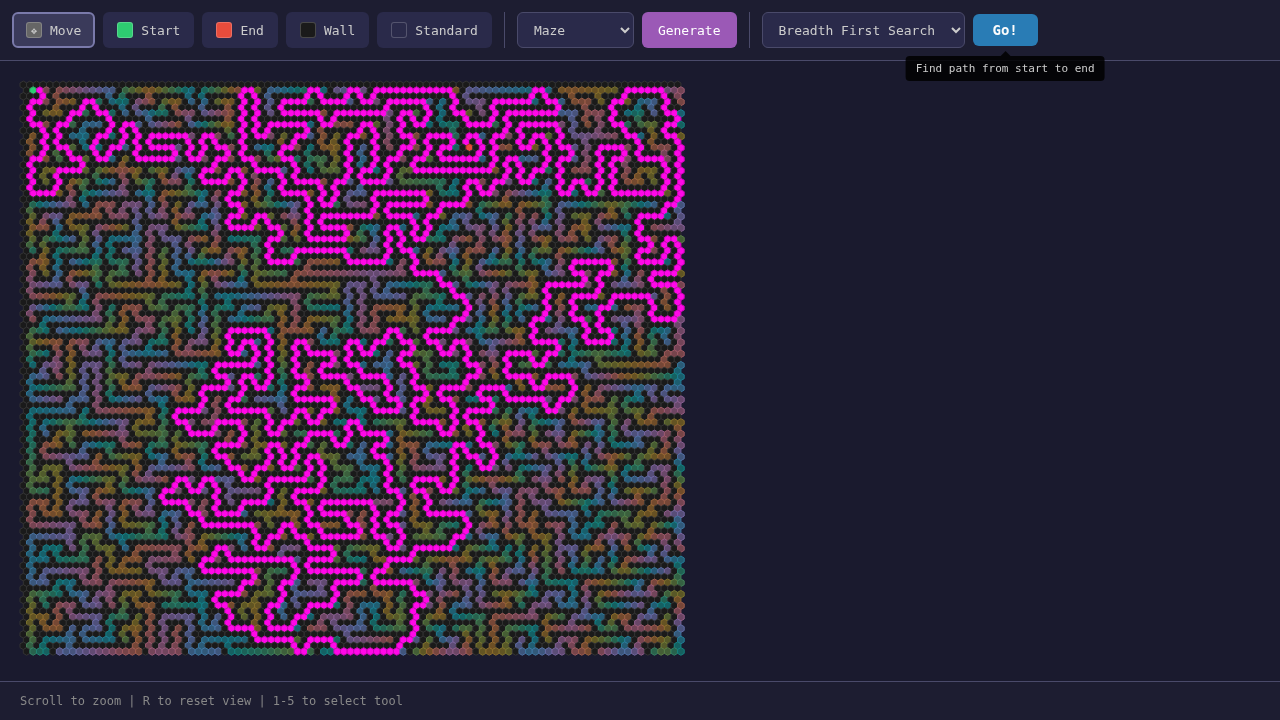
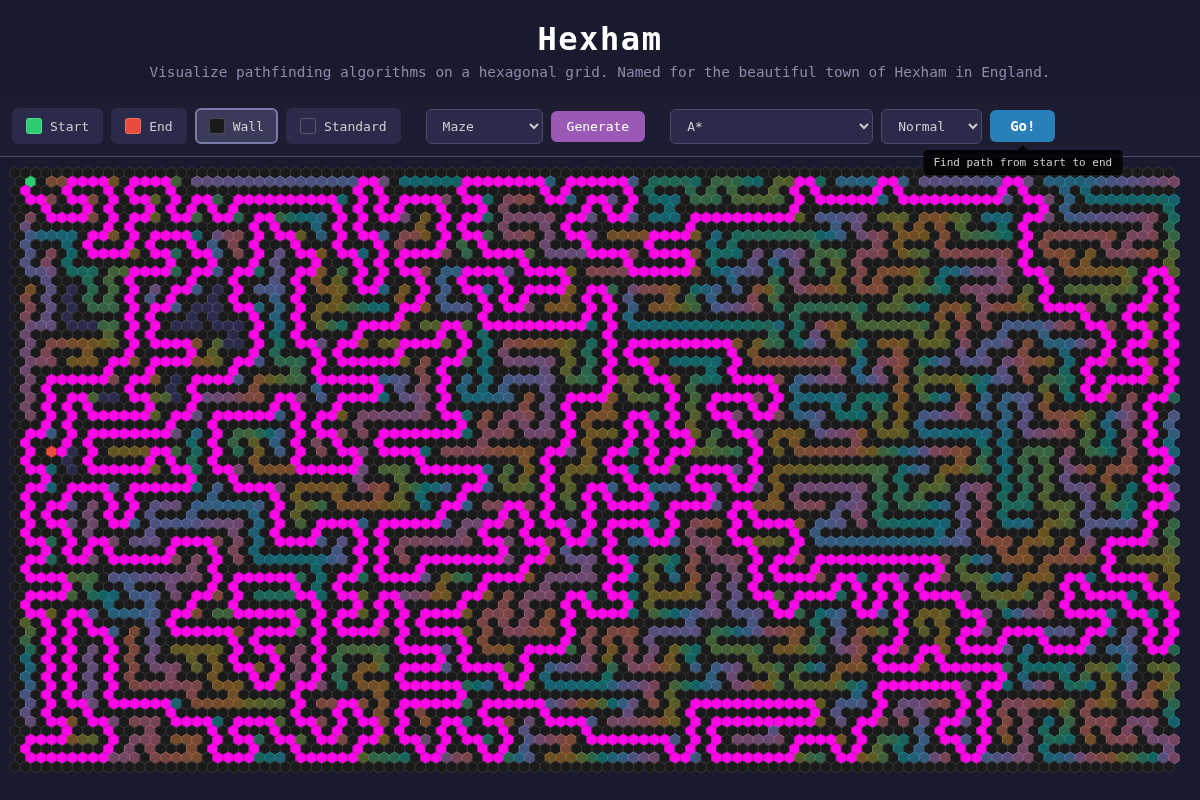
Add screenshot automation script

diff --git a/scripts/screenshot.js b/scripts/screenshot.js
@@ -1,0 +1,50 @@
+import { chromium } from '@playwright/test';
+
+async function takeScreenshot() {
+  const browser = await chromium.launch();
+  const page = await browser.newPage({
+    viewport: { width: 1200, height: 800 }
+  });
+
+  // Start local server and navigate
+  const { spawn } = await import('child_process');
+  const server = spawn('npx', ['serve', '-l', '3000', '.'], {
+    stdio: 'pipe',
+    shell: true
+  });
+
+  // Wait for server to start
+  await new Promise(resolve => setTimeout(resolve, 2000));
+
+  try {
+    await page.goto('http://localhost:3000/?speed=instant');
+    await page.waitForSelector('canvas');
+
+    // Generate a maze
+    await page.locator('#map-select').selectOption('maze');
+    await page.locator('#generate-btn').click();
+    await page.waitForTimeout(200);
+
+    // Use A* algorithm for nice visualization
+    await page.locator('#algorithm-select').selectOption('astar');
+
+    // Run pathfinding
+    await page.locator('#go-btn').click();
+
+    // Wait for animation to complete
+    await page.waitForTimeout(500);
+
+    // Take screenshot
+    await page.screenshot({ path: 'screenshot.png' });
+    console.log('Screenshot saved to screenshot.png');
+
+  } finally {
+    await browser.close();
+    server.kill();
+  }
+}
+
+takeScreenshot().catch(err => {
+  console.error('Screenshot failed:', err);
+  process.exit(1);
+});
